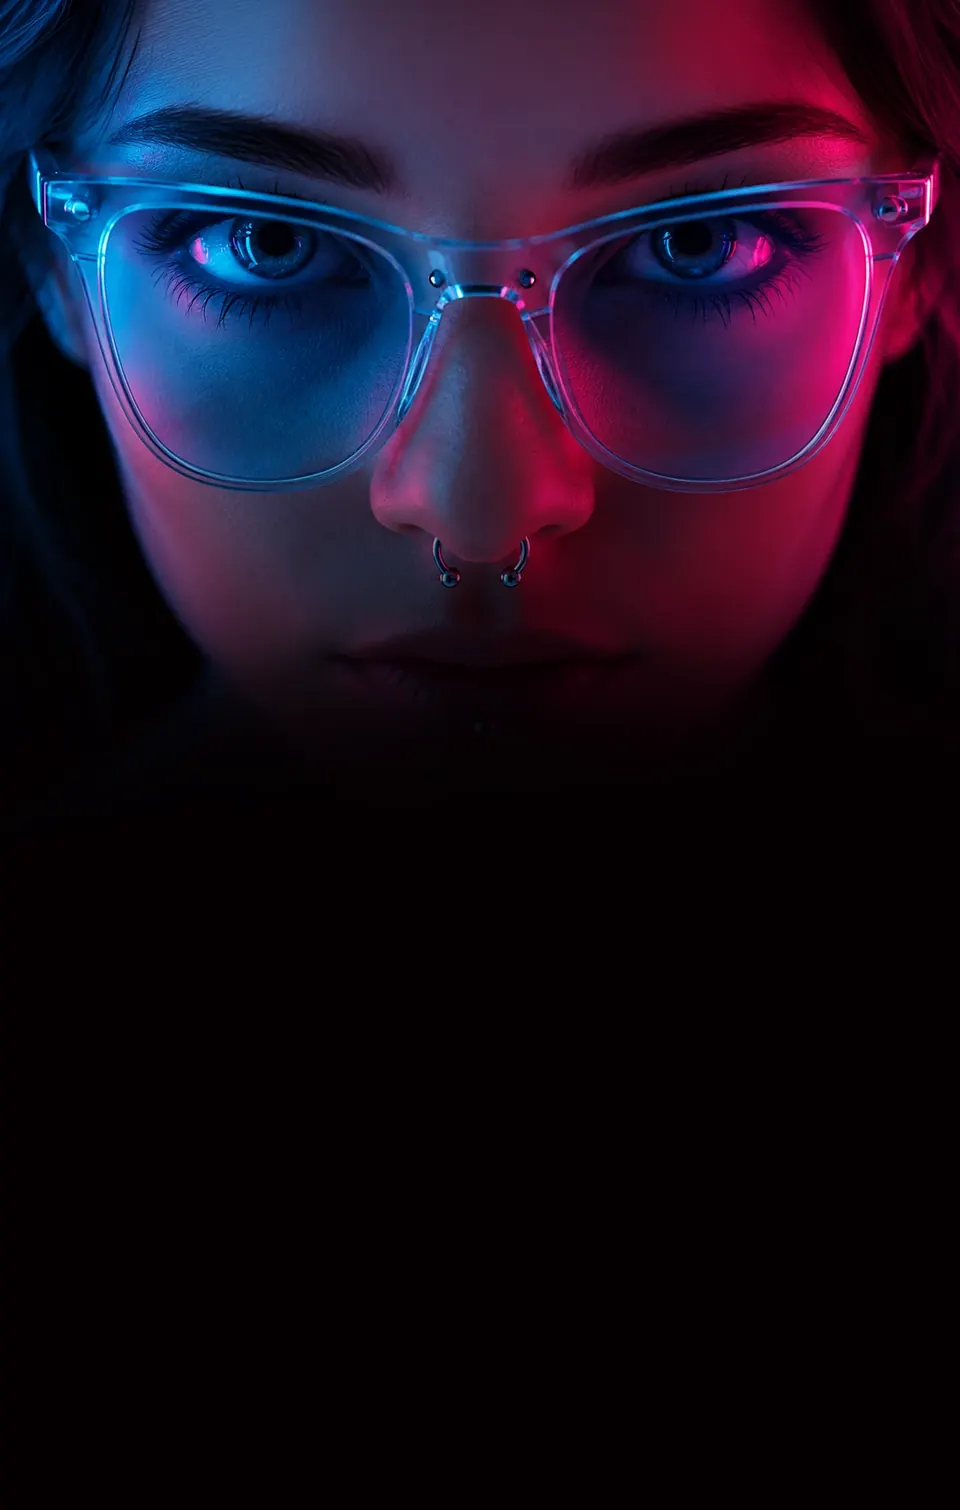
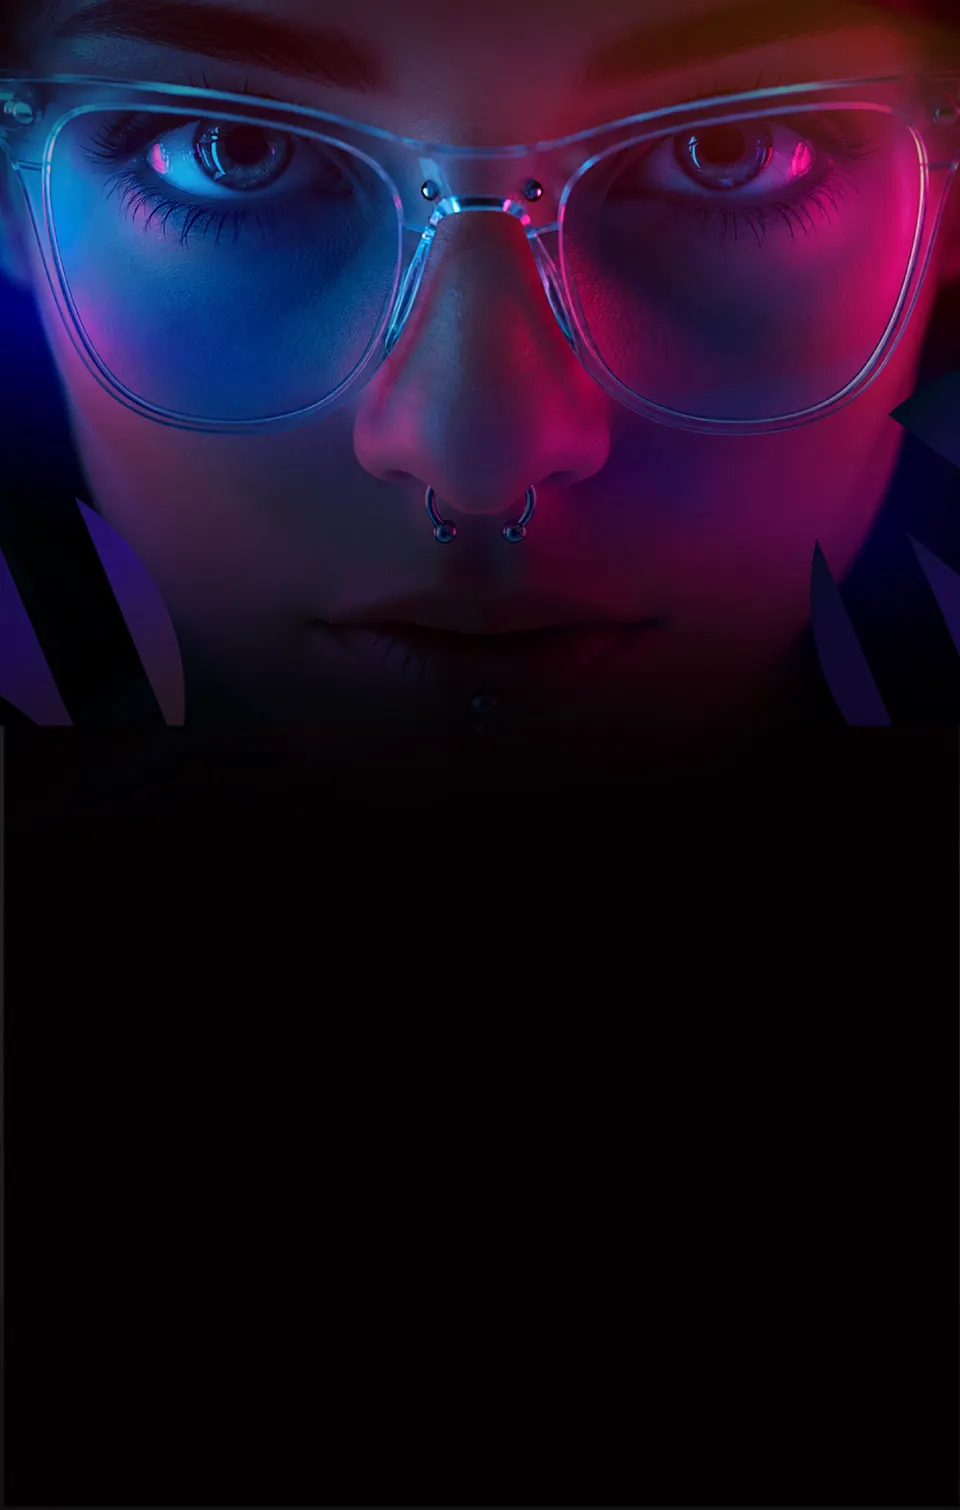
feat: Flor de Caña y Social Media al portafolio, vitrina con rum primero
El archivo deja de ser seis fichas. La home abre con la campaña Bicentenario
y NetForemost; WOK queda en /work. El retrato LCP mobile y el contacto del
footer se actualizan al mismo paso.

diff --git a/src/lib/work-items.ts b/src/lib/work-items.ts
@@ -6,12 +6,13 @@
 // imágenes sincronizados a mano en dos lugares. Con esto, un solo lugar
 // de verdad — y el índice nuevo no agregó una cuarta lista.
 //
-// CONTENIDO (actualizado 2026-08-26): los 6 proyectos son reales —
-// láminas del cliente, copy en español. Fecha y país quedan pendientes
-// donde el material no lo confirma; desde 2026-08-26 eso significa
-// campo ausente, no la cadena "pendiente de confirmar" en pantalla. Los
-// 3 placeholders (Experiencia digital, Dirección creativa, Contenido
-// social) se sacaron el 2026-08-18.
+// CONTENIDO (actualizado 2026-09-02): 8 proyectos reales — láminas del
+// cliente, copy en español. Fecha y país quedan pendientes donde el
+// material no lo confirma; desde 2026-08-26 eso significa campo ausente,
+// no la cadena "pendiente de confirmar" en pantalla. Los 3 placeholders
+// (Experiencia digital, Dirección creativa, Contenido social) se
+// sacaron el 2026-08-18. Flor de Caña y el reel Social Media (2026-09-02)
+// llevan copy de estudio, pendiente de aprobación.
 //
 // IMÁGENES: cada proyecto real trae su propio set en public/images
 // (toma-tola-*, netforemost-*, vida-nica-*, monumental-humidors-*,
@@ -38,12 +39,11 @@ import type { ServiceName } from "@/lib/services";
 // grid multi-columna con object-cover (recortaba fotos reales) a una sola
 // columna con cada imagen a su alto natural — ya no hay nada que "span"
 // pudiera controlar. Ver comentario en project-gallery.tsx.
-// SECTOR (2026-08-26): el eje que de verdad parte este portafolio. Los
-// seis casos son seis sectores distintos, sin solapamiento — a
-// diferencia de `categories`, donde "Creatividad" está en los seis y por
-// lo tanto no separa nada. Es también el eje que un prospecto usa de
-// verdad ("¿han hecho algo de comida?"). Se agrega ahora, con seis
-// casos, porque con veinte es arqueología.
+// SECTOR (2026-08-26): el eje que de verdad parte este portafolio.
+// A diferencia de `categories`, donde "Creatividad" está en casi todos
+// y por lo tanto no separa nada. Es también el eje que un prospecto
+// usa de verdad ("¿han hecho algo de comida?"). "Varios" es excepción
+// temporal: el reel DIGITAL mezcla marcas; no inventar un sector falso.
 export const SECTORS = [
   "Bebidas",
   "Tecnología",
@@ -51,6 +51,10 @@ export const SECTORS = [
   "Puros",
   "Estética",
   "Restaurantes",
+  // Solo el reel de social (carpeta DIGITAL): varias marcas en un
+  // mismo entregable. El día que Dra. Escobar / Casa 7 / Pasolion /
+  // Qonexia tengan ficha propia, este caso se parte y el sector se va.
+  "Varios",
 ] as const;
 
 export type Sector = (typeof SECTORS)[number];
@@ -144,7 +148,7 @@ export const workItems: WorkItem[] = [
       { src: "/images/toma-tola-12.webp", alt: "Toma-Tola — collage de marca en uso: consumo, cooler, gorra, sitio web (12)" },
       { src: "/images/toma-tola-13.webp", alt: "Toma-Tola — lámina de cierre de presentación (13)" },
     ],
-    homeOrder: 2,
+    homeOrder: 3,
   },
   {
     // Segundo proyecto real (2026-08-18). Copy original en inglés,
@@ -177,7 +181,7 @@ export const workItems: WorkItem[] = [
       { src: "/images/netforemost-12.webp", alt: "NetForemost — retrato desarrollo nativo en IA (12)" },
       { src: "/images/netforemost-13.webp", alt: "NetForemost — cierre de presentación, Gracias (13)" },
     ],
-    homeOrder: 4,
+    homeOrder: 2,
   },
   {
     // Tercer proyecto real (2026-08-18). Láminas VIDA_NICA_BRANDING-01 y
@@ -214,7 +218,7 @@ export const workItems: WorkItem[] = [
       { src: "/images/vida-nica-12.webp", alt: "Vida Nica — papelería corporativa (12)" },
       { src: "/images/vida-nica-13.webp", alt: "Vida Nica — cierre de presentación, Gracias (13)" },
     ],
-    homeOrder: 3,
+    homeOrder: 4,
   },
   {
     // Cuarto proyecto real (2026-08-18). Láminas
@@ -310,9 +314,10 @@ export const workItems: WorkItem[] = [
     hero: { type: "image", src: "/images/wok-hero.webp" },
     // Galería en el orden original (01, 03–13). El hero de la card es el
     // mockup de interior (lámina 12), no la -01: la portada de mármol
-    // queda pálida al recorte 16/9 de la home; el letrero con faroles
-    // lee mejor como miniatura, mismo criterio que Monumental (pin) y
-    // Oh! La Lashes (redes).
+    // queda pálida al recorte de la card; el letrero con faroles lee
+    // mejor como miniatura, mismo criterio que Monumental (pin) y
+    // Oh! La Lashes (redes). Fuera de la vitrina desde 2026-09-02
+    // (homeOrder 1 pasó a Flor de Caña).
     gallery: [
       { src: "/images/wok-01.webp", alt: "WOK — logo vertical sobre mármol con bambú (01)" },
       { src: "/images/wok-03.webp", alt: "WOK — paleta de color y tipografía Gang of Three (03)" },
@@ -327,7 +332,68 @@ export const workItems: WorkItem[] = [
       { src: "/images/wok-12.webp", alt: "WOK — mockup de interior con letrero y faroles (12)" },
       { src: "/images/wok-13.webp", alt: "WOK — cierre de presentación, Gracias (13)" },
     ],
+  },
+  {
+    // Séptimo (2026-09-02). Carpeta FLOR DE CAÑA: 4 láminas de campaña
+    // Bicentenario (key visual, bodega, boceto, valla). Copy de estudio,
+    // pendiente de aprobación del cliente — no llegó texto. Categorías:
+    // Creatividad (boceto + dirección de arte) + ATL & BTL (valla).
+    // Audiovisual no: no hay confirmación de que el fotomontaje final
+    // sea producción propia. País: Nicaragua está en las piezas
+    // ("Destilado, añejado y embotellado en Nicaragua"). homeOrder 1
+    // desde 2026-09-02: entra a la vitrina en el lugar de WOK.
+    slug: "flor-de-cana",
+    title: "FLOR DE CAÑA",
+    subtitle: "Campaña Bicentenario",
+    categories: ["Creatividad", "ATL & BTL"],
+    sector: "Bebidas",
+    client: "Flor de Caña",
+    country: "Nicaragua",
+    description:
+      "Campaña Bicentenario: un key visual que junta botella, copa y paisaje nicaragüense — volcán, barrica, guardabarranco — en una sola escena.\n\nDel boceto a la valla. La marca ya tenía el origen; el trabajo fue armar el cuadro a la altura de un 12 años seriado.",
+    hero: { type: "image", src: "/images/flor-de-cana-hero.webp" },
+    gallery: [
+      { src: "/images/flor-de-cana-01.webp", alt: "Flor de Caña — key visual Bicentenario 12, volcán y guardabarranco (01)" },
+      { src: "/images/flor-de-cana-02.webp", alt: "Flor de Caña — key visual en bodega de barricas (02)" },
+      { src: "/images/flor-de-cana-03.webp", alt: "Flor de Caña — boceto del key visual, volcán y caña (03)" },
+      { src: "/images/flor-de-cana-04.webp", alt: "Flor de Caña — valla Bicentenario (04)" },
+    ],
     homeOrder: 1,
+  },
+  {
+    // Octavo (2026-09-02). Carpeta DIGITAL: un reel de social, no un
+    // cliente. Láminas SOCIAL MEDIA-01 a 15 + portada. Marcas en el
+    // material: Dra. Elizabeth Escobar, Casa 7 Co, Pasolion Pubgarden y
+    // Qonexia. Copy de estudio, pendiente de aprobación. Categorías:
+    // Digital & Web + Creatividad. Sector Varios a propósito — partir
+    // el reel el día que paguen ficha por marca. Sin homeOrder.
+    slug: "social-media",
+    title: "SOCIAL MEDIA",
+    subtitle: "Contenido para marcas",
+    categories: ["Digital & Web", "Creatividad"],
+    sector: "Varios",
+    client: "Varias marcas",
+    country: "Nicaragua",
+    description:
+      "El feed también es un territorio. Piezas para Dra. Elizabeth Escobar, Casa 7 Co, Pasolion Pubgarden y Qonexia: el mismo criterio de siempre, adaptado al formato, al tono y a la marca que tiene que hablar hoy.",
+    hero: { type: "image", src: "/images/social-media-hero.webp" },
+    gallery: [
+      { src: "/images/social-media-01.webp", alt: "Social media — portada Dra. Elizabeth Escobar, Odontología Integral (01)" },
+      { src: "/images/social-media-02.webp", alt: "Social media — piezas Confianza que se nota, Dra. Escobar (02)" },
+      { src: "/images/social-media-03.webp", alt: "Social media — educación, atención y sonrisa, Dra. Escobar (03)" },
+      { src: "/images/social-media-04.webp", alt: "Social media — antes/ahora, hábitos y testimonio, Dra. Escobar (04)" },
+      { src: "/images/social-media-05.webp", alt: "Social media — portada Casa 7 Co (05)" },
+      { src: "/images/social-media-06.webp", alt: "Social media — We’re here, lineales de copa Casa 7 (06)" },
+      { src: "/images/social-media-07.webp", alt: "Social media — tumbler y copas Casa 7 (07)" },
+      { src: "/images/social-media-08.webp", alt: "Social media — features del tumbler y lifestyle Casa 7 (08)" },
+      { src: "/images/social-media-09.webp", alt: "Social media — portada Pasolion Pubgarden (09)" },
+      { src: "/images/social-media-10.webp", alt: "Social media — una jarra, una mesa, Pasolion (10)" },
+      { src: "/images/social-media-11.webp", alt: "Social media — meet and greet, rock y cerveza, Pasolion (11)" },
+      { src: "/images/social-media-12.webp", alt: "Social media — portada Qonexia (12)" },
+      { src: "/images/social-media-13.webp", alt: "Social media — Galaxy A57 y Nintendo Switch, Qonexia (13)" },
+      { src: "/images/social-media-14.webp", alt: "Social media — RAM vs almacenamiento, Redmi Buds y realme, Qonexia (14)" },
+      { src: "/images/social-media-15.webp", alt: "Social media — MacBook Neo, Galaxy Buds y DJI Mic, Qonexia (15)" },
+    ],
   },
 ];
 

diff --git a/src/app/work/page.tsx b/src/app/work/page.tsx
@@ -16,18 +16,19 @@ import { getArchiveWorkItems } from "@/lib/work-items";
 // el pager, nunca por un padre. Esta página es ese padre.
 //
 // LO QUE ESTA PÁGINA NO TIENE, A PROPÓSITO:
-//   · Filtros. Con seis piezas y la taxonomía actual serían teatro:
-//     "Creatividad" está en los seis casos, y Branding, Planeación y
-//     ATL & BTL no tienen ninguno — un chip "Planeación (0)" se ve peor
-//     que no tener filtros. Un grid de seis se barre con la vista. El
-//     día que paguen, el eje es `sector` (ya está en el modelo), no el
-//     servicio: es el único que parte el set.
+//   · Filtros. Con ocho piezas y la taxonomía actual serían teatro:
+//     "Creatividad" está en los ocho casos; Branding y Planeación
+//     siguen en cero — un chip "Planeación (0)" se ve peor que no tener
+//     filtros. Un grid de ocho se barre con la vista. El día que paguen,
+//     el eje es `sector` (ya está en el modelo), no el servicio: es el
+//     único que parte el set. "Varios" no cuenta como sector de
+//     prospecto: es el reel DIGITAL hasta que se parta por marca.
 //   · Un segundo carrusel sticky. La firma de la home es la home.
-//   · Rutas /work/creatividad. SSG de combinaciones para seis items.
+//   · Rutas /work/creatividad. SSG de combinaciones para ocho items.
 //
 // FONDO: liso, sin la textura de marca que sí lleva work/[slug]
 // (revisado en pantalla 2026-08-27). La idea era que archivo y detalle
-// se leyeran como una zona, pero acá la textura compite: son seis
+// se leyeran como una zona, pero acá la textura compite: son ocho
 // miniaturas a todo color contra un patrón que también tiene forma, y el
 // grid pierde el aire que necesita para leerse como una lista. En el
 // detalle funciona porque la columna de texto ocupa el ancho y la
@@ -37,12 +38,19 @@ import { getArchiveWorkItems } from "@/lib/work-items";
 export const metadata: Metadata = {
   title: "Proyectos — VPER Media",
   description:
-    "El portafolio completo de VPER Media: identidad, empaque, campaña y producción para marcas de bebidas, tecnología, bienes raíces, estética y restaurantes.",
+    "El portafolio de VPER Media: identidad, empaque, campaña y contenido para marcas de bebidas, tecnología, bienes raíces, estética y restaurantes.",
 };
 
 export default function WorkIndexPage() {
   const items = getArchiveWorkItems();
-  const sectors = new Set(items.map((item) => item.sector)).size;
+  // "Varios" no es un sector que un prospecto busque: es el cajón del
+  // reel DIGITAL. Contarlo inflaba "7 sectores distintos" con una
+  // etiqueta interna.
+  const sectors = new Set(
+    items
+      .filter((item) => item.sector !== "Varios")
+      .map((item) => item.sector),
+  ).size;
 
   return (
     <div className="min-h-screen bg-background text-foreground selection:bg-primary selection:text-primary-foreground flex flex-col overflow-x-clip">
@@ -53,12 +61,12 @@ export default function WorkIndexPage() {
           <SectionHeader
             eyebrow="PORTAFOLIO"
             title="TODOS LOS PROYECTOS."
-            description={`${items.length} casos completos en ${sectors} sectores distintos: identidad, empaque, campaña y producción de principio a fin.`}
+            description={`${items.length} casos en ${sectors} sectores: identidad, empaque, campaña y contenido.`}
           />
         </div>
 
         {/* Dos columnas es el techo a propósito: a tres, la card baja de
-            ~300px y el recorte 16/9 deja las láminas de marca
+            ~300px y el recorte 11/6 deja las láminas de marca
             ilegibles. El archivo lista, pero sigue siendo un portafolio
             visual. */}
         <div className="wrap grid grid-cols-1 md:grid-cols-2 gap-6 md:gap-8">

diff --git a/src/sections/footer.tsx b/src/sections/footer.tsx
@@ -77,13 +77,13 @@ export default function Footer() {
             <div className="flex min-w-0 flex-col items-center md:items-start">
               <h4 className="font-display text-xs font-bold tracking-widest text-[var(--footer-heading)] mb-6 uppercase">CONTACTO</h4>
               <div className="flex flex-col items-center md:flex-row md:items-center gap-3 md:gap-4 group text-center md:text-left">
-                <div className="w-12 h-12 md:w-16 md:h-16 rounded-full overflow-hidden border border-[var(--border-strong)] group-hover:border-primary/30 transition-all duration-300 shrink-0">
+                <div className="w-20 h-20 md:w-16 md:h-16 rounded-full overflow-hidden border border-[var(--border-strong)] group-hover:border-primary/30 transition-all duration-300 shrink-0">
                   <img src={IMAGES.carlos} alt="Carlos Escobar" className="w-full h-full object-cover group-hover:scale-105 transition-transform" />
                 </div>
                 <div className="flex flex-col items-center md:items-start">
-                  <span className="text-xs md:text-base font-bold text-[var(--footer-heading)] block tracking-wide">CARLOS ESCOBAR</span>
-                  <a href="mailto:carlos@vpermedia.com" className="text-[10px] md:text-sm text-[var(--footer-text)] hover:text-primary transition-colors block font-medium">carlos@vpermedia.com</a>
-                  <a href="tel:+50577824749" className="text-[10px] md:text-sm text-[var(--footer-text)] block font-medium">+505 7782-4749</a>
+                  <span className="text-body-sm md:text-base font-bold text-[var(--footer-heading)] block tracking-wide">CARLOS ESCOBAR</span>
+                  <a href="mailto:carlos@vpermedia.com" className="text-body-sm text-[var(--footer-text)] hover:text-primary transition-colors block font-medium">carlos@vpermedia.com</a>
+                  <a href="tel:+50577824749" className="text-body-sm text-[var(--footer-text)] block font-medium">+505 7782-4749</a>
                 </div>
               </div>
             </div>

diff --git a/src/components/work-card.tsx b/src/components/work-card.tsx
@@ -15,10 +15,12 @@ import type { WorkItem } from "@/lib/work-items";
 //   index    → el grid del archivo. Ancho 100%: acá manda la columna del
 //              grid, no la card.
 //
-// Lo que NO cambia entre variantes: el recorte 16/9 (las láminas ya
-// son 1024×576), el zoom al hover, el badge de flecha y la jerarquía
-// subtítulo → título. Que el archivo se sienta el mismo sitio que la
-// home es justamente el punto.
+// Lo que NO cambia entre variantes: el recorte 11/6 (~13px más alto
+// que 19/10, ~12px más bajo que 16/9 en el ancho de archivo; las
+// láminas siguen siendo 1024×576 y object-cover recorta un pelo), el
+// zoom al hover, el badge de flecha y la jerarquía subtítulo → título.
+// Que el archivo se sienta el mismo sitio que la home es justamente
+// el punto.
 //
 // Sin `sector` en la card a propósito: `subtitle` ya dice lo mismo en
 // prosa ("Cocina cantonesa", "Bienes raíces"). `sector` existe como
@@ -54,7 +56,7 @@ export default function WorkCard({
           : "w-full",
       )}
     >
-      <div className="aspect-video overflow-hidden bg-muted relative">
+      <div className="aspect-[11/6] overflow-hidden bg-muted relative">
         {/* 1024×576 es el tope de las láminas (detalle / desktop).
             En la card mobile (~355px) el srcset pide el -sm de 640. */}
         <img
